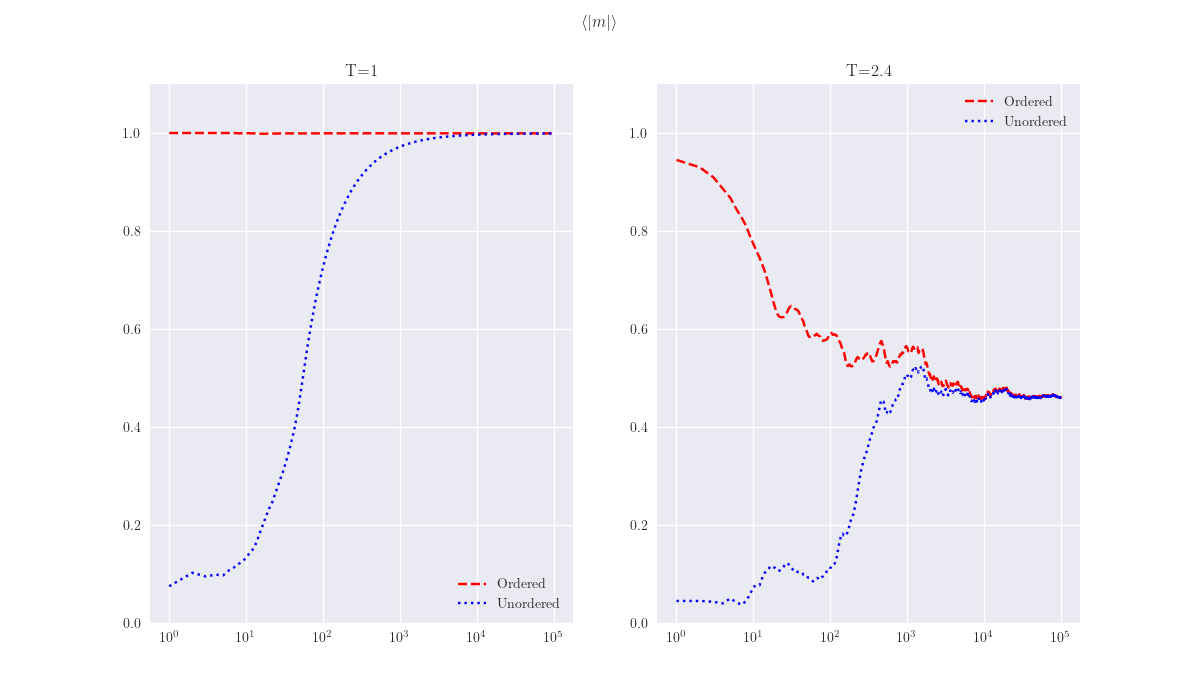
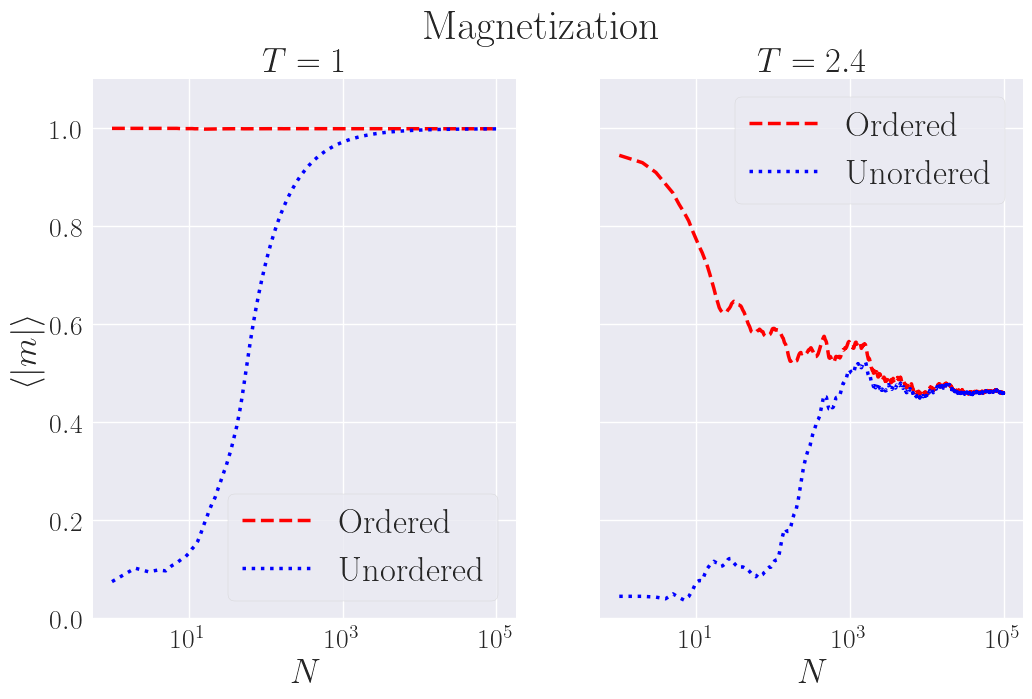
fader vår, no er eg lei

diff --git a/project4/code/plot/analysis.py b/project4/code/plot/analysis.py
@@ -8,11 +8,23 @@ import pandas as pd
 import os 
 import plot 
 
-
+#   Paths
 here = os.path.abspath(".")
 data_path = here + "/../../output/data/"
 latex_path = here + "/../../latex/"
 fig_path = here + "/../../output/plots/temp/"
+
+#   rc-params
+
+plt.rc("legend", fontsize=25, fancybox=True, loc="best", frameon=True)
+plt.rc("font", size=25)
+plt.rc("axes", titlesize=25)
+plt.rc("xtick", labelsize=20)
+plt.rc("ytick", labelsize=20)
+plt.rc("lines", linewidth=2.5)
+# plt.rc("label", fontsize=20)
+
+plt.rcParams['savefig.bbox'] = 'tight'
 
 
 def analytical(T):
@@ -89,17 +101,15 @@ def equilibriation_time(sp):
     e1un, m1un, n2, T2 = load("equil_L20_N100000_T1_unordered.csv")     # T=1, unordered (random inital spins)
     e2or, m2or, n3, T4   = load("equil_L20_N100000_T2.4_ordered.csv")   # T=2.4, aligned initial spins 
     e2un, m2un, n4, T4 = load("equil_L20_N100000_T2.4_unordered.csv")   # T=2.4, unordered (random inital spins)
-
     
     ### ENERGY 
-    fig1, ax1 = plt.subplots(nrows=1, ncols=2, figsize=(12,7))
-    fig1.suptitle(r'$\langle \epsilon \rangle$')
+    fig1, ax1 = plt.subplots(nrows=1, ncols=2, figsize=(12,7), sharey=True)
+    fig1.suptitle('Energy')
 
     ax1[0].plot(n1, e1or, '--', color='red', label='Ordered')
     ax1[0].plot(n2, e1un, ':', color='blue', label='Unordered')
     ax1[1].plot(n3, e2or, '--', color='red', label='Ordered')
     ax1[1].plot(n4, e2un, ':', color='blue', label='Unordered')
-
     
     ax1[0].set_xscale('log')
     ax1[1].set_xscale('log')
@@ -107,18 +117,20 @@ def equilibriation_time(sp):
     ax1[1].set_ylim(-2.1, 0)
     ax1[0].legend()
     ax1[1].legend()
-    ax1[0].set_title('T=1')
-    ax1[1].set_title('T=2.4')
+    ax1[0].set_title(r'$T=1$')
+    ax1[1].set_title(r'$T=2.4$')
+
+    ax1[0].set_ylabel(r'$\langle \epsilon \rangle$', fontsize=25)
+    ax1[0].set_xlabel(r'$N$', fontsize=25)
+    ax1[1].set_xlabel(r'$N$', fontsize=25)
 
     if sp:
         fig1.savefig(fig_path + "equilibriation_time_energy.png")
         plt.close()
 
-
-
     ### MAGNETIZATION
-    fig2, ax2 = plt.subplots(nrows=1, ncols=2, figsize=(12,7))
-    fig2.suptitle(r'$\langle \vert m \vert \rangle$')
+    fig2, ax2 = plt.subplots(nrows=1, ncols=2, figsize=(12,7), sharey=True)
+    fig2.suptitle(r'Magnetization')
     
     ax2[0].plot(n1, m1or, '--', color='red', label='Ordered')
     ax2[0].plot(n2, m1un, ':', color='blue', label='Unordered')
@@ -131,8 +143,13 @@ def equilibriation_time(sp):
     ax2[1].set_ylim(0, 1.1)
     ax2[0].legend()
     ax2[1].legend()
-    ax2[0].set_title('T=1')
-    ax2[1].set_title('T=2.4')
+    ax2[0].set_title(r'$T=1$')
+    ax2[1].set_title(r'$T=2.4$')
+
+    ax2[0].set_ylabel(r'$\langle \vert m \vert \rangle$', fontsize=25)
+    ax2[0].set_xlabel(r'$N$', fontsize=25)
+    ax2[1].set_xlabel(r'$N$', fontsize=25)
+
 
     if sp:
         fig2.savefig(fig_path + "equilibriation_time_magnetization.png")
@@ -168,13 +185,19 @@ def pdf_histogram(sp):
     ax[0].hist(e1, bins=bins1, weights=weights1, facecolor='red', edgecolor='black', lw=2)
     ax[1].hist(e2, bins=bins2, weights=weights2, facecolor='red', edgecolor='black', lw=0.5)
 
-    ax[0].set_title(r'T=1, $\langle E \rangle =${:.2f}, $\sigma^2=${:.2e}'.format(mean1, var1))
-    ax[1].set_title(r'T=2.4, $\langle E \rangle =${:.2f}, $\sigma^2=${:.2e}'.format(mean2, var2))
+    ax[0].set_title(r'$T=1$')
+    ax[1].set_title(r'$T=2.4$')
     
-    ax[0].set_xlabel('E duh')
-    ax[1].set_xlabel('E duh')
-    ax[0].set_ylabel('P(E) duh')    
-    ax[1].set_ylabel('P(E) duh')        
+    textstr1 = '\n'.join((r'$\langle E \rangle = $ {:.2f}'.format(mean1), r'$\sigma^2 = $ {:.2e}'.format(var1)))
+    textstr2 = '\n'.join((r'$\langle E \rangle = $ {:.2f}'.format(mean2), r'$\sigma^2 = $ {:.2e}'.format(var2)))
+
+    ax[0].set_xlabel(r'$\epsilon$', fontsize=25)
+    ax[1].set_xlabel(r'$\epsilon$', fontsize=25)
+    ax[0].set_ylabel(r'$p_\epsilon(\epsilon; T)$', fontsize=25)    
+    # ax[1].set_ylabel('P(E) duh')        
+
+    ax[0].text(0.58, 0.95, textstr1, transform=ax[0].transAxes, fontsize=20, verticalalignment='top', bbox=dict(boxstyle='round', facecolor='white'))
+    ax[1].text(0.05, 0.95, textstr2, transform=ax[1].transAxes, fontsize=20, verticalalignment='top', bbox=dict(boxstyle='round', facecolor='white'))
 
     if sp:
         fig.savefig(fig_path + "histogram.png")
@@ -281,12 +304,10 @@ def PT(NT, sp=False):
     plt.show()
 
 
-
 sp = False # only show plots
-
 
 # compare_analytical(sp)
 # equilibriation_time(sp)
-# pdf_histogram(sp)
-PT(NT=100, sp=False)
+pdf_histogram(sp)
+# PT(NT=100, sp=False)
 

diff --git a/project4/latex/results.tex b/project4/latex/results.tex
@@ -5,7 +5,7 @@
     \includegraphics[width=0.9\linewidth]{temp/equilibriation_time_energy.png}
     \caption{Hei}
     \label{fig:equil_energy}
-\end{figure}
+\end{figure} 
 
 
 
@@ -27,7 +27,7 @@
     \includegraphics[width=0.9\linewidth]{temp/phase_transition.png} 
     \caption{Hvem vinner VM?}
     \label{fig:phase_transition}
-\end{figure}
+\end{figure} 
 
 
 
